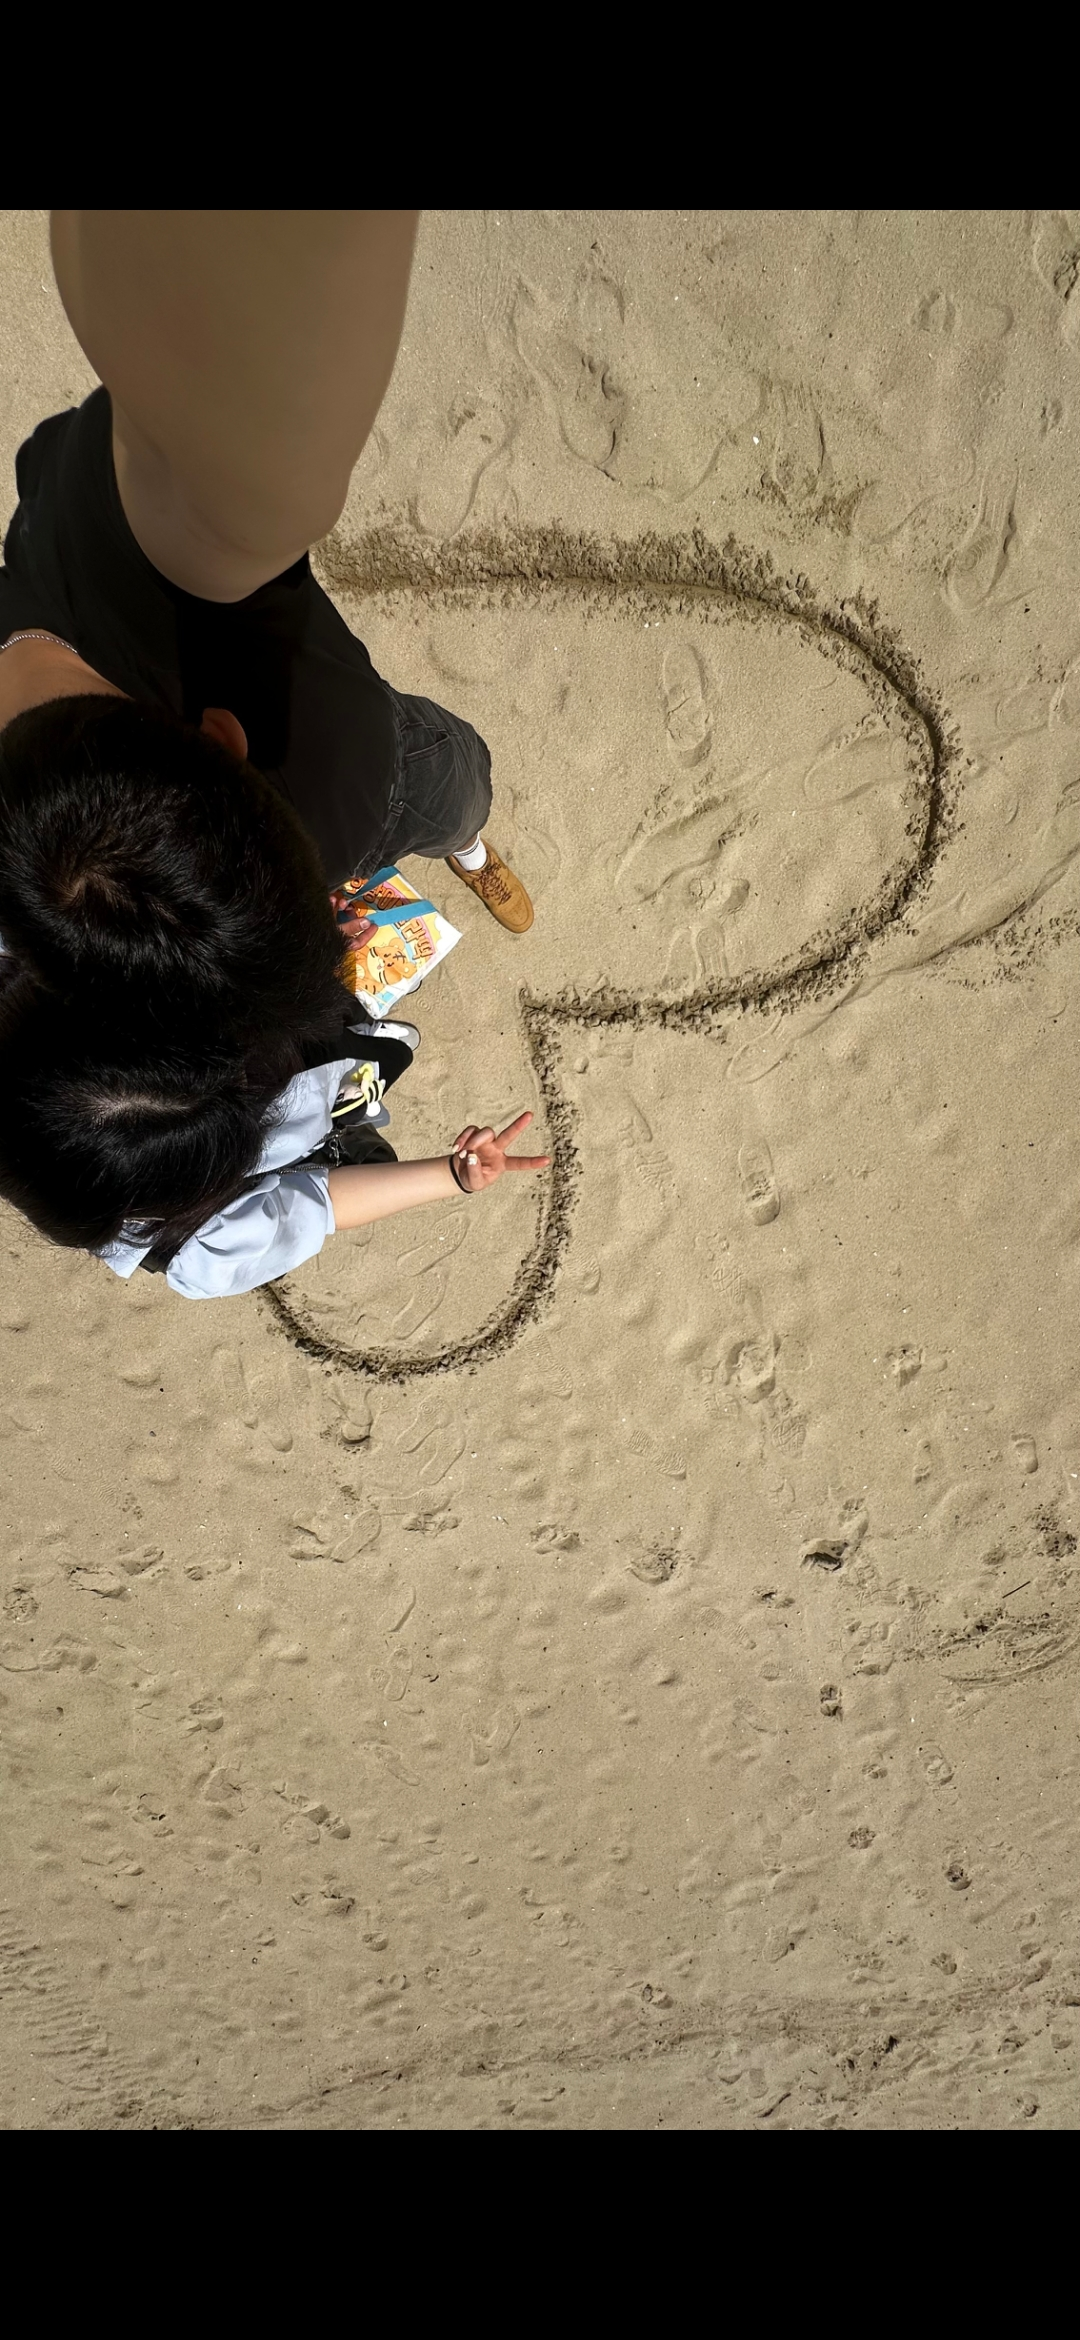
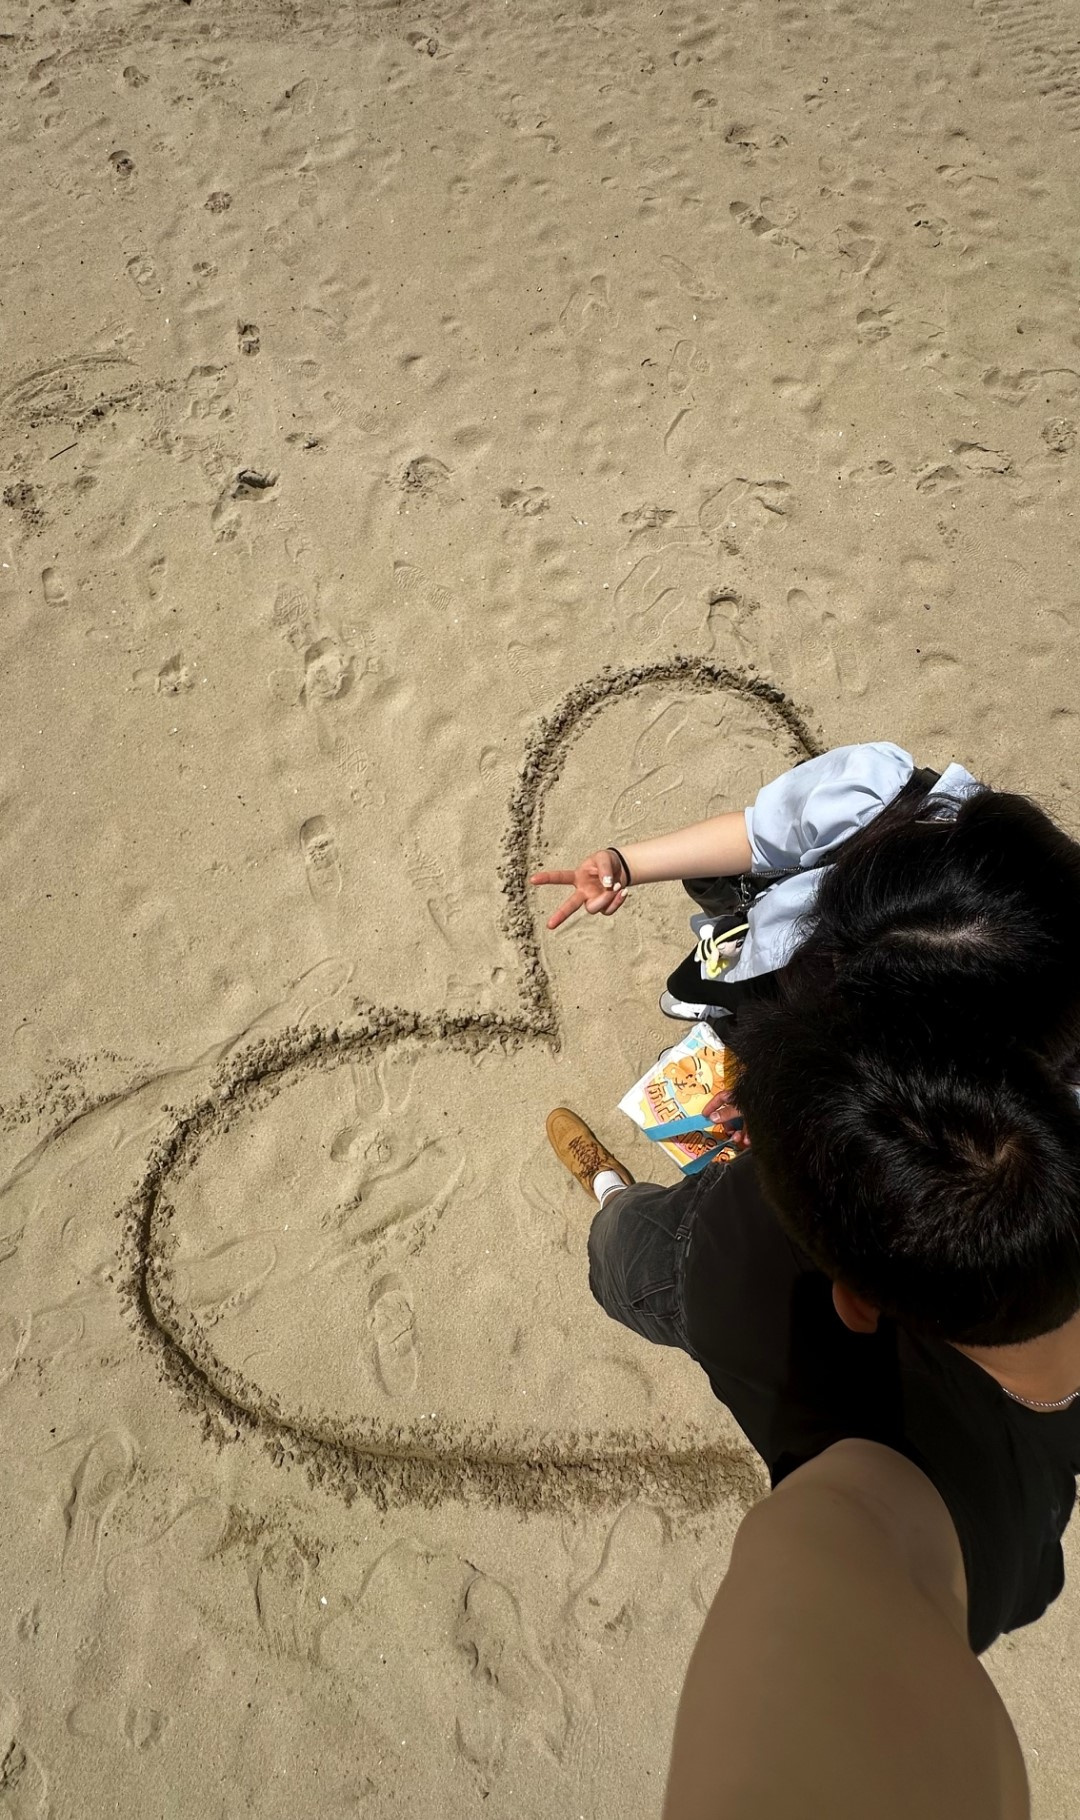
사진 추가

diff --git a/src/data/photos.ts b/src/data/photos.ts
@@ -28,7 +28,7 @@ export const galleryPhotos: GalleryPhoto[] = [
   { src: gallery1, caption: '여기에 사진 설명을 입력하세요 (1)' },
   { src: gallery2, caption: '여기에 사진 설명을 입력하세요 (2)' },
   { src: gallery3, caption: '여기에 사진 설명을 입력하세요 (3)' },
-  { src: gallery4, caption: '여기에 사진 설명을 입력하세요 (4)' },
-  { src: gallery5, caption: '여기에 사진 설명을 입력하세요 (5)' },
+  { src: gallery4, caption: '처음으로 같이 간 부산 여행' },
+  { src: gallery5, caption: '전역 기념 전주 여행' },
   { src: gallery6, caption: '여기에 사진 설명을 입력하세요 (6)' },
 ]

diff --git a/src/components/NextButton.tsx b/src/components/NextButton.tsx
@@ -8,7 +8,7 @@ interface NextButtonProps {
 
 // 각 Scene 하단에 공통으로 쓰이는 "다음" 버튼
 // visible이 true가 되기 전까지는 렌더링되지 않고, 나타날 때 부드럽게 페이드인 됩니다.
-export default function NextButton({ label = '다음', onClick, visible }: NextButtonProps) {
+export default function NextButton({ label = '우리 참 재밌게 놀았다 그치', onClick, visible }: NextButtonProps) {
   return (
     <AnimatePresence>
       {visible && (
